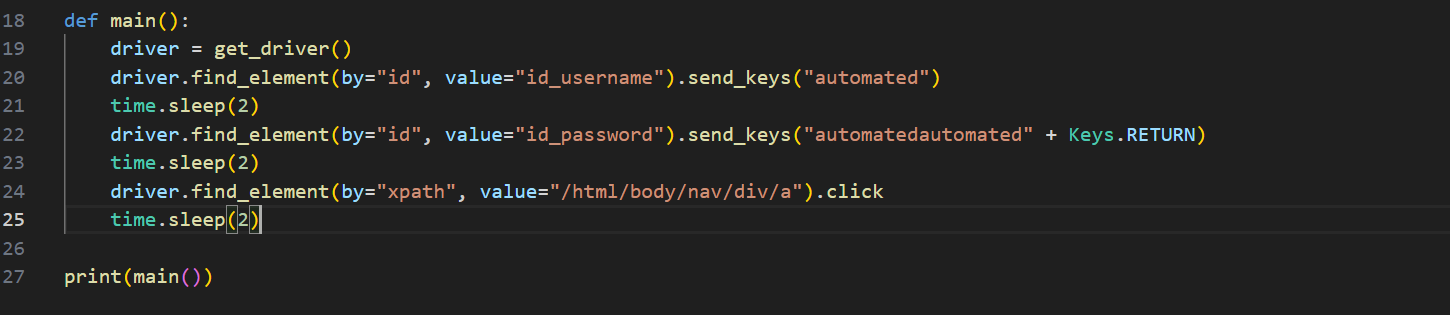
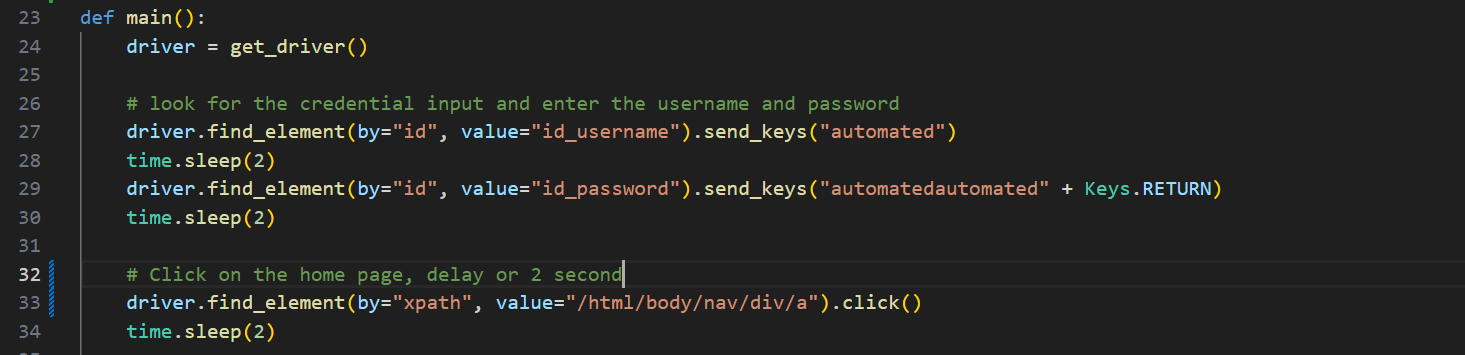
updated script3

diff --git a/02.Website-Login-Automation/loginscript.py b/02.Website-Login-Automation/loginscript.py
@@ -15,6 +15,11 @@ def get_driver():
     driver.get("http://automated.pythonanywhere.com/login/")
     return driver
 
+def clean_text(text):
+    # Extract only the temperature from text
+    output = float(text.split(": ")[1])
+    return output
+
 def main():
     driver = get_driver()
 
@@ -24,8 +29,12 @@ def main():
     driver.find_element(by="id", value="id_password").send_keys("automatedautomated" + Keys.RETURN)
     time.sleep(2)
 
-    # Click on the home page, delay or 2 sec and then scrap the dynamic temporature values
-    driver.find_element(by="xpath", value="/html/body/nav/div/a").click
+    # Click on the home page, delay or 2 second
+    driver.find_element(by="xpath", value="/html/body/nav/div/a").click()
     time.sleep(2)
+
+    # Scrap the dynamic temperature value
+    text = driver.find_element(by="xpath", value="/html/body/div[1]/div/h1[2]").text
+    return clean_text(text)
 
 print(main()) 
